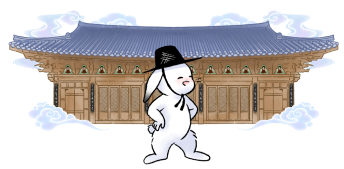
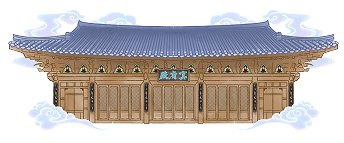
텍스트

diff --git a/css/index.css b/css/index.css
@@ -305,6 +305,9 @@
   background: url(./img/balloon.png);
   background-size: contain;
   background-repeat: no-repeat;
+  /* position: absolute; */
+  /* left: 50%; */
+  /* transform: translateX(-50%); */
 }
 .balloon_img > .txt {
   font-size: 1.6rem;
@@ -926,13 +929,19 @@
   top: 0;
   cursor: pointer;
 }
-.serai_img {
+.thankserai_img {
   width: 100%;
-  height: 22%;
-  min-height: 25rem;
+  height: 20%;
+  min-height: 23rem;
   transition: all 0.5s cubic-bezier(0.56, 0, 0.07, 1.01);
+  position: relative;
 }
-.serai_img > div {
+.thankserai_img .balloon_img {
+  position: absolute;
+  left: 50%;
+  transform: translateX(-50%);
+}
+.thankserai_img > .serai_img {
   width: 80%;
   height: 100%;
   background-size: contain;
@@ -940,25 +949,53 @@
   background-position: bottom;
   max-width: 40rem;
   position: relative;
-  transition: all 0.5s cubic-bezier(0.56, 0, 0.07, 1.01);
+  transition: all 0.5s;
   /* display: flex; */
-}
-.serai_img .balloon_img > .txt {
-  top: 2.5rem;
+  position: absolute;
+  top: 0;
   left: 50%;
   transform: translateX(-50%);
 }
-.serai_img1 {
+.thankserai_img .balloon_img > .txt {
+  top: 2.5rem;
+  left: 50%;
+  transform: translateX(-50%);
+  width: 100%;
+  text-align: center;
+}
+.serai_img {
   /* opacity: 0; */
   background: url(./img/arrive.png);
 }
+.serai_img1 {
+  opacity: 1;
+}
 .serai_img2 {
   opacity: 0;
-  background: url(./img/arrive.png);
 }
 .serai_img3 {
   opacity: 0;
+}
+.serai_rabbit {
+  /* opacity: 0; */
+  background: url(./img/arrive1.png);
+  /* opacity: 0; */
+  width: 45%;
+  height: 100%;
+  position: absolute;
+  top: 1.5rem;
+  background-size: contain;
+  background-repeat: no-repeat;
+  background-position: bottom;
+  left: 50%;
+  transform: translateX(-50%);
+  transition: all 0.5s cubic-bezier(0.56, 0, 0.07, 1.01);
+}
+.serai_rabbit.on {
   background: url(./img/arrive2.png);
+  background-size: contain;
+  background-repeat: no-repeat;
+  background-position: bottom;
 }
 .serai_img3 .heritage_click {
   color: #5f88c6;

diff --git a/index.html b/index.html
@@ -141,23 +141,22 @@
         <!-- 도착 s -->
         <div class="thank_img">
           <button class="reset_btn">처음으로</button>
-          <div class="serai_img">
-            <div class="serai_img1">
-              <div class="balloon_img">
-                <div class="txt">감사하오!</div>
-              </div>
+          <div class="thankserai_img">
+            <div class="balloon_img serai_img1">
+              <div class="txt">감사하오!</div>
             </div>
-            <div class="serai_img2">
-              <div class="balloon_img">
-                <div class="txt">덕분에 잘 도망쳤소!</div>
-              </div>
+
+            <div class="balloon_img serai_img2">
+              <div class="txt">덕분에 잘 도망쳤소!</div>
             </div>
-            <div class="serai_img3">
-              <div class="balloon_img">
-                <button class="heritage_click">Click!</button>
-                <div class="txt">여기? 여기는...</div>
-              </div>
+
+            <div class="balloon_img serai_img3">
+              <button class="heritage_click">Click!</button>
+              <div class="txt">여기? 여기는...</div>
             </div>
+
+            <div class="serai_img"></div>
+            <div class="serai_rabbit"></div>
           </div>
           <ul class="button">
             <li><a href="#" class="share" onclick="last()">공유하기</a></li>

diff --git a/css/media.css b/css/media.css
@@ -64,8 +64,9 @@
   .serai_img > div {
     /* height: clamp(75%, 55vw, 100%); */
   }
-  .serai_img {
-    min-height: clamp(22%, 56vw, 24rem);
+  .thankserai_img {
+    min-height: clamp(20rem, 50vw, 22rem);
+    height: clamp(18%, 50vw, 20%);
   }
 }
 @media (max-width: 425px) {
@@ -85,10 +86,21 @@
     top: clamp(0.5rem, 4vw, 1.7rem);
     /* left: clamp(1rem, 5vw, 2rem); */
   }
+  .climb_button {
+    padding: clamp(10%, 50vw, 11%) 0;
+  }
+  .climb_button:hover {
+    padding: clamp(0.5rem, 8vw, 7.5rem) 0;
+    align-items: flex-start;
+  }
   .conversion_img .balloon_img > .txt {
     font-size: clamp(0.8rem, 4vw, 1.6rem);
     top: clamp(1.5rem, 6vw, 2.4rem);
     left: clamp(5.5rem, 5vw, 6rem);
+  }
+  .thankserai_img {
+    min-height: clamp(18rem, 50vw, 22rem);
+    height: clamp(16%, 50vw, 18%);
   }
   .heritage_area {
     gap: 0;
@@ -110,9 +122,20 @@
   .shiny_img {
     bottom: clamp(0rem, 42vw, 36rem);
   }
+
+  .climb_button {
+    padding: clamp(6%, 52vw, 10%);
+  }
+  .climb_button:hover {
+    padding: clamp(0.5rem, 7vw, 3.5rem) 0;
+  }
   .rabbit_turtle_img.on .balloon_img2 {
     transform: inherit;
     top: -10%;
+  }
+  .thankserai_img {
+    min-height: clamp(16.5rem, 54vw, 18.5rem);
+    height: clamp(14%, 52vw, 18%);
   }
 }
 @media (max-height: 809px) {

diff --git a/js/index.js b/js/index.js
@@ -239,7 +239,6 @@ $(document).ready(function () {
     await delay(1500);
     $(".serai_img1").css({
       opacity: "0",
-      display: "none",
     });
     $(".serai_img2").css({
       opacity: "1",
@@ -247,11 +246,11 @@ $(document).ready(function () {
     await delay(2000);
     $(".serai_img2").css({
       opacity: "0",
-      display: "none",
     });
     $(".serai_img3").css({
       opacity: "1",
     });
+    $(".serai_rabbit").addClass("on");
   };
   const handleResetBtn = async () => {
     location.reload();
